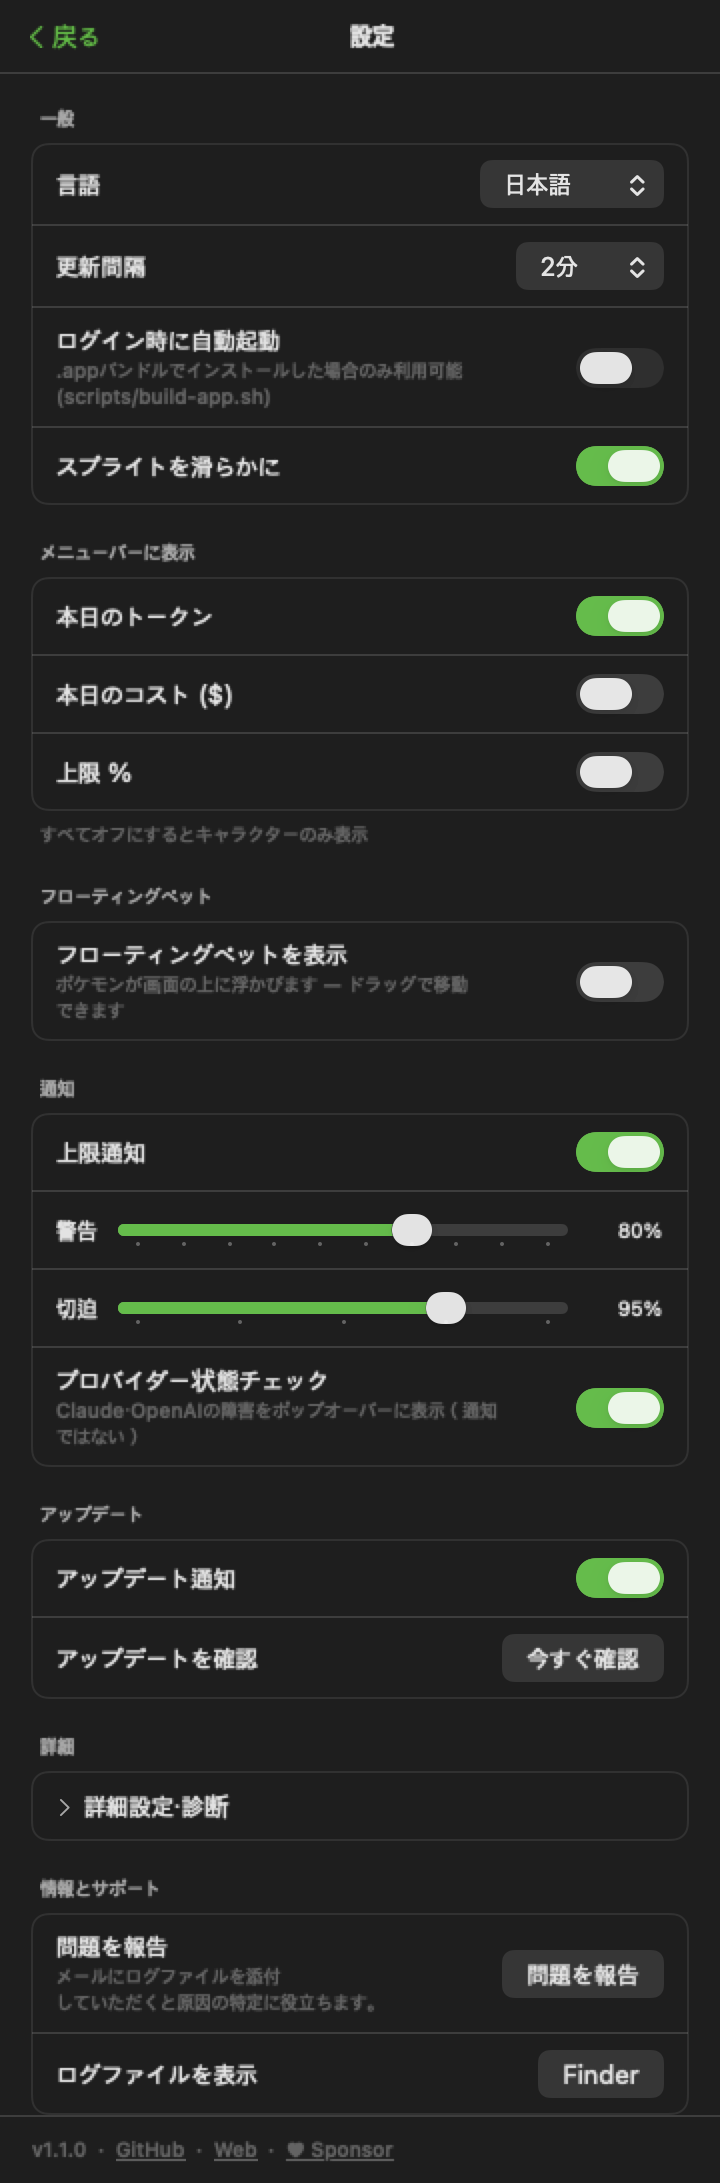
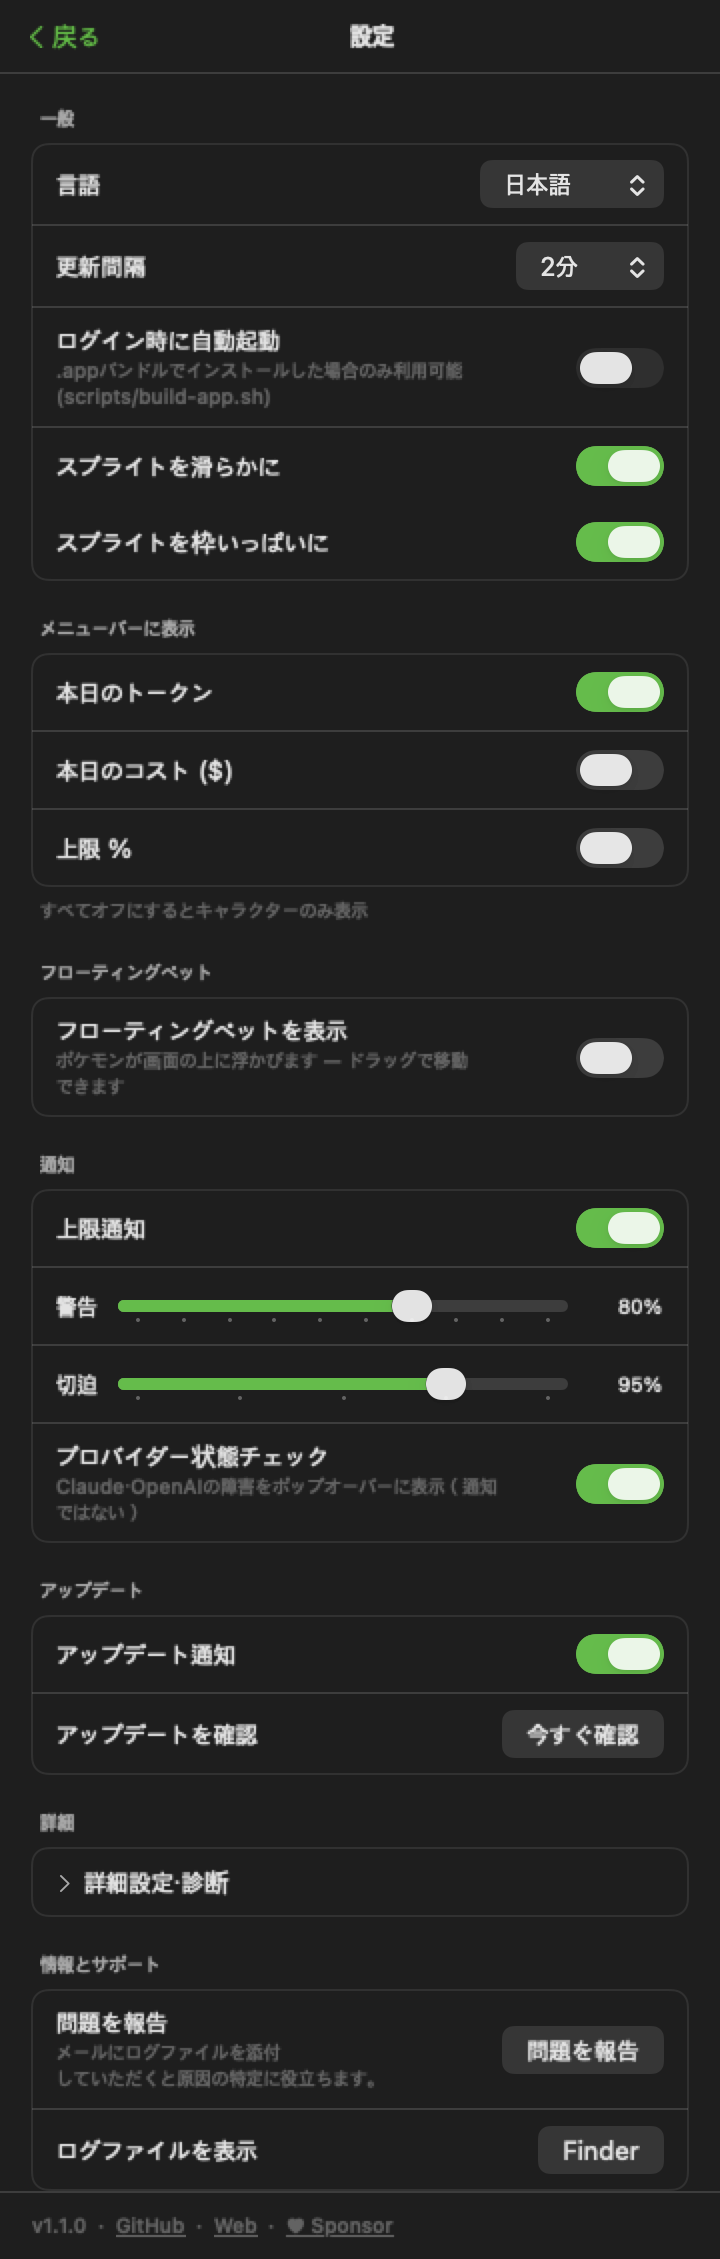
feat: make filling the frame with sprites a setting
Trimming the canvas margin is a taste call, not a correctness one — the
size difference between a Diglett and a Snorlax is information some
people want to keep. On by default, since without it small species are
hard to tell apart in a slot, and off restores each sprite's own canvas.

diff --git a/Sources/PokeDexBar/UI/BoxTabView.swift b/Sources/PokeDexBar/UI/BoxTabView.swift
@@ -13,6 +13,8 @@ struct BoxTabView: View {
     let onNeedLine: (Int) -> Void
     /// 상세를 열어 둔 개체. 팝오버가 소유해 탭을 옮기면 닫힌다.
     @Binding var selection: UUID?
+    /// 스프라이트를 칸에 꽉 채울지(설정).
+    var fillFrame = true
 
     private var l: L { store.l }
 
@@ -60,7 +62,7 @@ struct BoxTabView: View {
             if let selected {
                 IndividualDetailView(store: store, individual: selected,
                                      line: lines[selected.baseID],
-                                     onNeedLine: onNeedLine,
+                                     onNeedLine: onNeedLine, fillFrame: fillFrame,
                                      onBack: { selection = nil })
             } else {
                 grid
@@ -92,7 +94,7 @@ struct BoxTabView: View {
                                 isPartner: individual.id == store.state.partnerID,
                                 ribbon: individual.ribbon(at: store.currentDate()),
                                 canEvolve: readyToEvolve(individual),
-                                partnerBadge: l.partnerBadge) {
+                                partnerBadge: l.partnerBadge, fillFrame: fillFrame) {
                             selection = individual.id
                         }
                         // 진화 가능 표시를 그리려면 라인이 필요하다 — 보이는 칸만 요청한다.
@@ -169,6 +171,7 @@ struct BoxCell: View {
     /// 단 리본 — 칸에서 바로 보여야 "오래 데리고 다닌 아이"가 구분되고, 단계까지 읽힌다.
     let ribbon: Ribbon?
     let canEvolve: Bool
+    let fillFrame: Bool
     let partnerBadge: String
     let onTap: () -> Void
 
@@ -182,11 +185,12 @@ struct BoxCell: View {
     #endif
 
     init(individual: Individual, isPartner: Bool, ribbon: Ribbon? = nil, canEvolve: Bool,
-         partnerBadge: String, onTap: @escaping () -> Void) {
+         partnerBadge: String, fillFrame: Bool = true, onTap: @escaping () -> Void) {
         self.individual = individual
         self.isPartner = isPartner
         self.ribbon = ribbon
         self.canEvolve = canEvolve
+        self.fillFrame = fillFrame
         self.partnerBadge = partnerBadge
         self.onTap = onTap
         #if DEBUG
@@ -199,7 +203,7 @@ struct BoxCell: View {
             VStack(spacing: 0) {
                 ZStack(alignment: .topTrailing) {
                     SpriteView(speciesID: individual.speciesID, form: individual.spriteForm,
-                               size: 36, shiny: individual.shiny)
+                               size: 36, shiny: individual.shiny, fillFrame: fillFrame)
                         .frame(width: 36, height: 36)
                         // 리본은 좌측 상단, 진화 가능은 우측 상단 — 양쪽 귀퉁이로 갈라 둬야
                         // 둘 다 붙은 개체에서 서로 겹치지 않는다.

diff --git a/Sources/PokeDexBar/UI/PopoverView.swift b/Sources/PokeDexBar/UI/PopoverView.swift
@@ -66,7 +66,8 @@ struct PopoverView: View {
     var body: some View {
         Group {
             if Self.needsStarter(player.state) {
-                StarterPickerView(store: player, provider: provider) { }
+                StarterPickerView(store: player, provider: provider,
+                                  fillFrame: store.fillSpriteFrame) { }
             } else {
                 existingBody
             }
@@ -131,9 +132,9 @@ struct PopoverView: View {
 
             if nav.tab == .box {
                 BoxTabView(store: player, lines: evoLines, onNeedLine: { baseID in loadLine(baseID) },
-                           selection: $boxSelection)
+                           selection: $boxSelection, fillFrame: store.fillSpriteFrame)
             } else if nav.tab == .collection {
-                NationalDexView(store: player)
+                NationalDexView(store: player, fillFrame: store.fillSpriteFrame)
             } else if nav.tab == .shop {
                 ShopTabView(store: player, provider: provider)
             } else {
@@ -146,11 +147,13 @@ struct PopoverView: View {
                 if Self.needsCountdownTick(player.state) {
                     TimelineView(.periodic(from: .now, by: 1)) { context in
                         EggSlotsView(store: player, now: context.date, lines: evoLines,
-                                     onNeedLine: { baseID in loadLine(baseID) })
+                                     onNeedLine: { baseID in loadLine(baseID) },
+                                     fillFrame: store.fillSpriteFrame)
                     }
                 } else {
                     EggSlotsView(store: player, now: player.currentDate(), lines: evoLines,
-                                 onNeedLine: { baseID in loadLine(baseID) })
+                                 onNeedLine: { baseID in loadLine(baseID) },
+                                 fillFrame: store.fillSpriteFrame)
                 }
                 Divider()
                 header
@@ -189,7 +192,8 @@ struct PopoverView: View {
         if let partner = player.state.partner {
             HStack(alignment: .top, spacing: 10) {
                 SpriteView(speciesID: partner.speciesID, form: partner.spriteForm, size: 64, bob: true, animated: true,
-                          shiny: partner.shiny, antialias: store.antialiasSprites)
+                          shiny: partner.shiny, antialias: store.antialiasSprites,
+                          fillFrame: store.fillSpriteFrame)
                     .frame(width: 64, height: 64)
                     .background(Color.secondary.opacity(0.06))
                     .clipShape(RoundedRectangle(cornerRadius: 12))

diff --git a/Sources/PokeDexBar/UI/CompanionView.swift b/Sources/PokeDexBar/UI/CompanionView.swift
@@ -53,6 +53,8 @@ struct SpriteView: View {
     /// 나오지만 그건 CALayer 필터라 오프스크린 렌더(스크린샷 생성기)에서 통째로 무시된다 —
     /// 템플릿 렌더링은 그리기 단계라 어디서든 똑같이 나온다.
     var silhouette: Bool = false
+    /// 투명 여백을 잘라 칸을 채울지(설정). 끄면 종마다 다른 원래 캔버스 그대로 그린다.
+    var fillFrame: Bool = true
     @State private var img: NSImage?
     @State private var up = false
     @State private var loadedID: Int?   // img 가 어느 speciesID 것인지(id 변경 시 갱신 판단)
@@ -76,7 +78,7 @@ struct SpriteView: View {
 
     init(speciesID: Int?, form: String? = nil, size: CGFloat = 84, bob: Bool = false,
          animated: Bool = false, shiny: Bool = false, minFrameDelay: TimeInterval = 0,
-         antialias: Bool = false, silhouette: Bool = false) {
+         antialias: Bool = false, silhouette: Bool = false, fillFrame: Bool = true) {
         self.speciesID = speciesID
         self.form = form
         self.size = size
@@ -86,6 +88,7 @@ struct SpriteView: View {
         self.minFrameDelay = minFrameDelay
         self.antialias = antialias
         self.silhouette = silhouette
+        self.fillFrame = fillFrame
         #if DEBUG
         Self.constructionCount += 1
         #endif
@@ -117,7 +120,8 @@ struct SpriteView: View {
     /// 그릴 이미지 — 투명 여백을 잘라낸 뒤 확대한다. 자르지 않으면 종마다 여백 비율이 달라
     /// 작은 포켓몬이 칸 안에서 작게 남는다(`SpriteTrim` 주석 참조).
     private func drawable(_ image: NSImage, trim: CGRect?) -> NSImage {
-        upscaled(trim.map { SpriteTrim.cropped(image, to: $0) } ?? image)
+        guard fillFrame, let trim else { return upscaled(image) }
+        return upscaled(SpriteTrim.cropped(image, to: trim))
     }
 
     /// 표시 크기에 맞는 EPX 패스 수만큼 확대한 이미지. 토글이 꺼져 있으면 원본 그대로.

diff --git a/Tests/PokeDexBarTests/SpriteTrimTests.swift b/Tests/PokeDexBarTests/SpriteTrimTests.swift
@@ -90,3 +90,41 @@ final class SpriteTrimTests: XCTestCase {
         XCTAssertEqual(out.size.width, source.size.width, accuracy: 0.5)
     }
 }
+
+/// 설정 — 여백 잘라내기는 취향이 갈려서 끌 수 있어야 한다(실제 크기 차이도 정보다).
+@MainActor
+final class FillSpriteFrameSettingTests: XCTestCase {
+    private func makeStore() -> (UsageStore, UserDefaults) {
+        let defaults = UserDefaults(suiteName: "fill-\(UUID().uuidString)")!
+        return (UsageStore(defaults: defaults), defaults)
+    }
+
+    /// 기본은 켬 — 안 켜면 작은 포켓몬이 칸에서 작게 남아 구분이 안 된다.
+    func testDefaultsToOn() {
+        XCTAssertTrue(makeStore().0.fillSpriteFrame)
+    }
+
+    func testPersistsAcrossLaunches() {
+        let (store, defaults) = makeStore()
+        store.fillSpriteFrame = false
+        XCTAssertFalse(UsageStore(defaults: defaults).fillSpriteFrame, "설정이 저장되지 않는다")
+    }
+
+    /// 껐을 때 원본이 그대로 나와야 한다 — 잘라낸 결과가 아니라.
+    func testTurningItOffKeepsTheOriginalCanvas() {
+        let canvas = NSSize(width: 64, height: 64)
+        let image = NSImage(size: canvas)
+        image.lockFocus()
+        NSColor.clear.setFill()
+        NSRect(origin: .zero, size: canvas).fill()
+        NSColor.blue.setFill()
+        NSRect(x: 26, y: 26, width: 12, height: 12).fill()
+        image.unlockFocus()
+
+        let rect = SpriteTrim.contentRect(of: image)!
+        XCTAssertLessThan(rect.width, canvas.width, "잘라낼 여백이 있어야 이 테스트가 의미 있다")
+        XCTAssertEqual(SpriteTrim.cropped(image, to: rect).size.width, rect.width, accuracy: 1.5)
+        // 설정을 끄면 호출부가 `cropped` 를 아예 부르지 않는다 — 원본 크기가 유지된다.
+        XCTAssertEqual(image.size.width, canvas.width)
+    }
+}

diff --git a/Sources/PokeDexBar/Core/UsageStore.swift b/Sources/PokeDexBar/Core/UsageStore.swift
@@ -73,6 +73,11 @@ final class UsageStore {
         didSet { defaults.set(floatingPetEnabled, forKey: "floatingPetEnabled") }
     }
     /// 스프라이트 안티앨리어싱(EPX 업스케일) — 저해상도 GIF 를 크게 띄울 때 계단이 덜 보이게 한다.
+    /// 스프라이트의 투명 여백을 잘라 칸을 꽉 채울지. 끄면 종마다 다른 원래 캔버스 그대로 그려
+    /// 작은 포켓몬이 작게 보인다 — 실제 크기 차이도 정보라 취향이 갈린다.
+    var fillSpriteFrame: Bool {
+        didSet { defaults.set(fillSpriteFrame, forKey: "fillSpriteFrame") }
+    }
     var antialiasSprites: Bool {
         didSet { defaults.set(antialiasSprites, forKey: "antialiasSprites") }
     }
@@ -300,6 +305,7 @@ final class UsageStore {
         statusChecksEnabled = d.object(forKey: "statusChecksEnabled") as? Bool ?? true
         floatingPetEnabled = d.object(forKey: "floatingPetEnabled") as? Bool ?? false
         antialiasSprites = d.object(forKey: "antialiasSprites") as? Bool ?? true
+        fillSpriteFrame = d.object(forKey: "fillSpriteFrame") as? Bool ?? true
         floatingPetSize = d.object(forKey: "floatingPetSize") as? Double ?? 96
         floatingPetBubbleAlerts = d.object(forKey: "floatingPetBubbleAlerts") as? Bool ?? true
         disableKeychainAccess = d.object(forKey: "disableKeychainAccess") as? Bool ?? false

diff --git a/Sources/PokeDexBar/UI/EggSlotsView.swift b/Sources/PokeDexBar/UI/EggSlotsView.swift
@@ -15,6 +15,8 @@ struct EggSlotsView: View {
     /// 나왔는지 와닿지 않는다). 아직 없으면 `onNeedLine` 으로 요청하고 번호로 떨어진다.
     var lines: [Int: EvoLine] = [:]
     var onNeedLine: (Int) -> Void = { _ in }
+    /// 스프라이트를 칸에 꽉 채울지(설정) — 부화 확인 카드로 넘긴다.
+    var fillFrame = true
     /// 방금 거둔 개체 — 연출 중에만 non-nil. 이미 박스에 들어가 있어서 닫아도 잃는 것이 없다.
     @State private var hatched: Individual?
 
@@ -74,7 +76,8 @@ struct EggSlotsView: View {
         .overlay {
             if let hatched {
                 HatchedRevealView(individual: hatched, store: store,
-                                  line: lines[hatched.baseID], onNeedLine: onNeedLine) {
+                                  line: lines[hatched.baseID], onNeedLine: onNeedLine,
+                                  fillFrame: fillFrame) {
                     self.hatched = nil
                 }
             }

diff --git a/Sources/PokeDexBar/UI/EggIcon.swift b/Sources/PokeDexBar/UI/EggIcon.swift
@@ -127,6 +127,8 @@ struct HatchedRevealView: View {
     /// 종 이름을 아는 진화 라인. 없으면 번호로 떨어지고 `onNeedLine` 으로 받아온다.
     var line: EvoLine?
     var onNeedLine: (Int) -> Void = { _ in }
+    /// 스프라이트를 칸에 꽉 채울지(설정).
+    var fillFrame = true
     let onDone: () -> Void
 
     private var l: L { store.l }
@@ -142,7 +144,8 @@ struct HatchedRevealView: View {
             Color.black.opacity(0.84)
             VStack(spacing: 6) {
                 SpriteView(speciesID: individual.speciesID, form: individual.spriteForm,
-                           size: 64, animated: true, shiny: individual.shiny, antialias: true)
+                           size: 64, animated: true, shiny: individual.shiny, antialias: true,
+                           fillFrame: fillFrame)
                     .frame(width: 64, height: 64)
                 HStack(spacing: 5) {
                     Text(displayName).font(.system(size: 12, weight: .semibold))

diff --git a/Sources/PokeDexBar/UI/IndividualDetailView.swift b/Sources/PokeDexBar/UI/IndividualDetailView.swift
@@ -8,6 +8,8 @@ struct IndividualDetailView: View {
     /// 진화 라인. 없으면 후보를 모르니 진화 버튼을 숨긴다(대신 `onNeedLine` 으로 받아온다).
     let line: EvoLine?
     let onNeedLine: (Int) -> Void
+    /// 스프라이트를 칸에 꽉 채울지(설정).
+    var fillFrame = true
     let onBack: () -> Void
 
     private var l: L { store.l }
@@ -60,7 +62,8 @@ struct IndividualDetailView: View {
     private var portrait: some View {
         HStack(spacing: 10) {
             SpriteView(speciesID: individual.speciesID, form: individual.spriteForm, size: 72,
-                       animated: true, shiny: individual.shiny, antialias: true)
+                       animated: true, shiny: individual.shiny, antialias: true,
+                       fillFrame: fillFrame)
                 .frame(width: 72, height: 72)
             VStack(alignment: .leading, spacing: 4) {
                 HStack(spacing: 5) {

diff --git a/Sources/PokeDexBar/UI/NationalDexView.swift b/Sources/PokeDexBar/UI/NationalDexView.swift
@@ -7,6 +7,8 @@ import SwiftUI
 /// 스프라이트 요청도 화면에 들어온 칸에서만 나간다.
 struct NationalDexView: View {
     let store: PlayerStore
+    /// 스프라이트를 칸에 꽉 채울지(설정).
+    var fillFrame = true
 
     nonisolated static let speciesRange = 1...1025
 
@@ -39,7 +41,7 @@ struct NationalDexView: View {
         let caught = store.state.dex.contains(speciesID)
         return VStack(spacing: 1) {
             // 못 잡은 종은 실루엣 — 모습은 보이되 정체는 가린다.
-            SpriteView(speciesID: speciesID, size: 32, silhouette: !caught)
+            SpriteView(speciesID: speciesID, size: 32, silhouette: !caught, fillFrame: fillFrame)
                 .frame(width: 32, height: 32)
                 .opacity(caught ? 1 : 0.55)
             Text("\(speciesID)")

diff --git a/Sources/PokeDexBar/UI/StarterPickerView.swift b/Sources/PokeDexBar/UI/StarterPickerView.swift
@@ -5,6 +5,7 @@ import SwiftUI
 struct StarterPickerView: View {
     let store: PlayerStore
     let provider: any PokeProviding
+    var fillFrame = true
     let onChosen: () -> Void
 
     @State private var choosing: Int?
@@ -58,7 +59,7 @@ struct StarterPickerView: View {
         Button {
             choose(speciesID)
         } label: {
-            SpriteView(speciesID: speciesID, size: 64, animated: true)
+            SpriteView(speciesID: speciesID, size: 64, animated: true, fillFrame: fillFrame)
                 .frame(width: 76, height: 76)
                 .background(Color.secondary.opacity(0.10), in: RoundedRectangle(cornerRadius: 10))
         }

diff --git a/Sources/PokeDexBar/Core/Localization.swift b/Sources/PokeDexBar/Core/Localization.swift
@@ -270,6 +270,9 @@ struct L {
     var floatingPetBubbleAlertsLabel: String {
         t("말풍선으로 알림 받기", "Show notifications as bubbles", "通知を吹き出しで表示")
     }
+    var fillSpriteFrameLabel: String {
+        t("스프라이트를 칸에 꽉 채우기", "Fill the frame with sprites", "スプライトを枠いっぱいに")
+    }
     var antialiasLabel: String {
         t("스프라이트 부드럽게", "Smooth sprites", "スプライトを滑らかに")
     }

diff --git a/Sources/PokeDexBar/UI/SettingsView.swift b/Sources/PokeDexBar/UI/SettingsView.swift
@@ -139,6 +139,7 @@ struct SettingsView: View {
             // 팝오버 컴패니언·플로팅 펫 스프라이트 공통 설정 — 플로팅 펫이 꺼져 있어도(기본값)
             // 팝오버 컴패니언은 항상 보이므로 조건 없이 여기 둔다.
             toggleRow(l.antialiasLabel, $store.antialiasSprites)
+            toggleRow(l.fillSpriteFrameLabel, $store.fillSpriteFrame)
         }
     }
 
